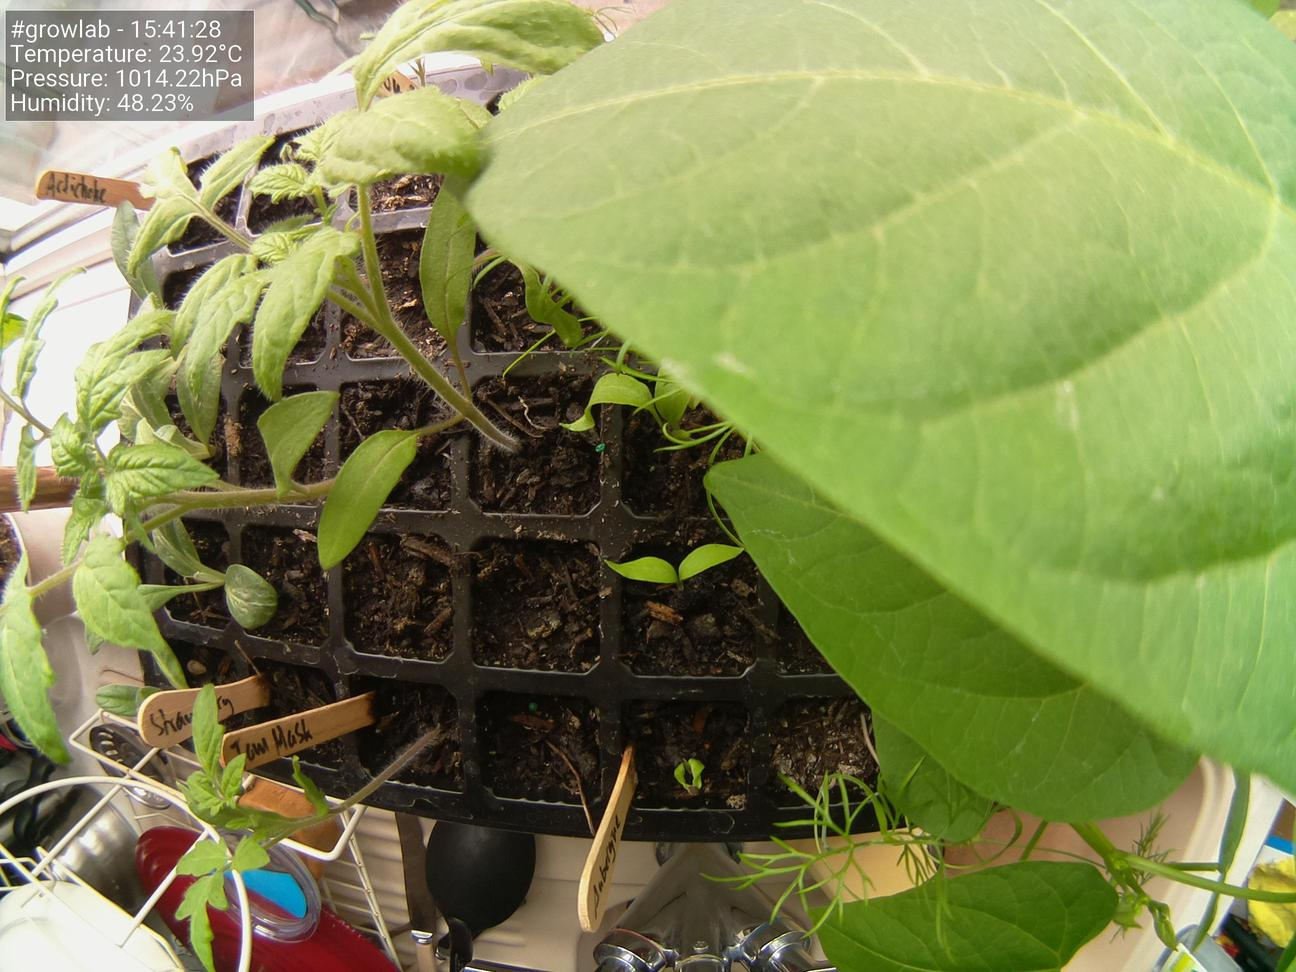
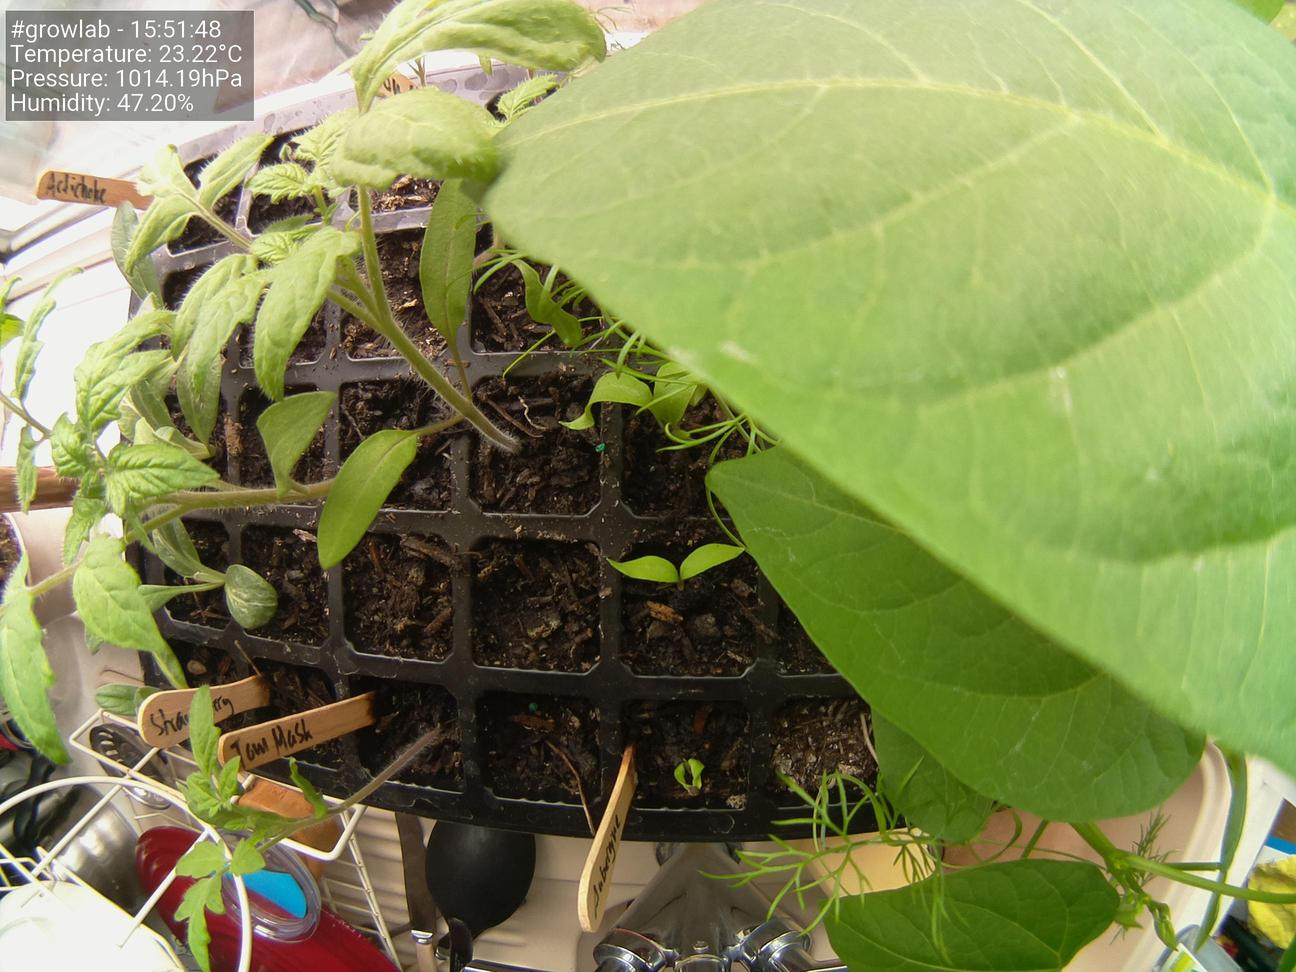
Update images at Fri 30 Apr 15:51:59 BST 2021

diff --git a/docs/index.html b/docs/index.html
@@ -38,19 +38,19 @@
                     <tbody>
                         <tr>
                             <td>Time</td>
-                            <td>15:41:28</td>
+                            <td>15:51:48</td>
                         </tr>
                         <tr>
                             <td>Temperature</td>
-                            <td>23.92°C</td>
+                            <td>23.22°C</td>
                         </tr>
                         <tr>
                             <td>Humidity</td>
-                            <td>48.23%</td>
+                            <td>47.20%</td>
                         </tr>
                         <tr>
                             <td>Pressure</td>
-                            <td>1014.22hPa</td>
+                            <td>1014.19hPa</td>
                         </tr>
                     </tbody>
                 </table>
@@ -58,7 +58,7 @@
 
                 <h5>Latest image</h5>
 		<div style="width: 85%;">
-	                <img class="figure-img img-fluid rounded" src="./preview.jpg?uid=1619793699.4798348">
+	                <img class="figure-img img-fluid rounded" src="./preview.jpg?uid=1619794319.1544771">
 		</div>
             </div>
         </div>
